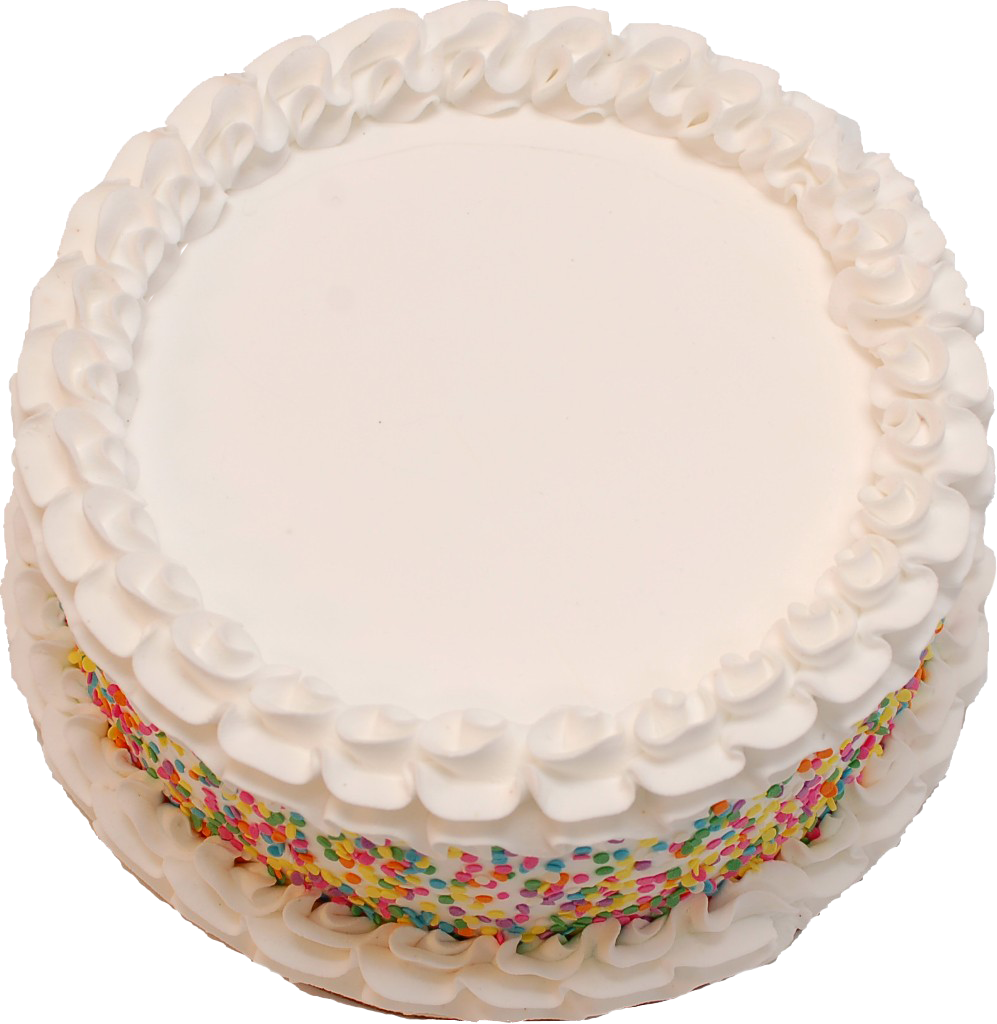
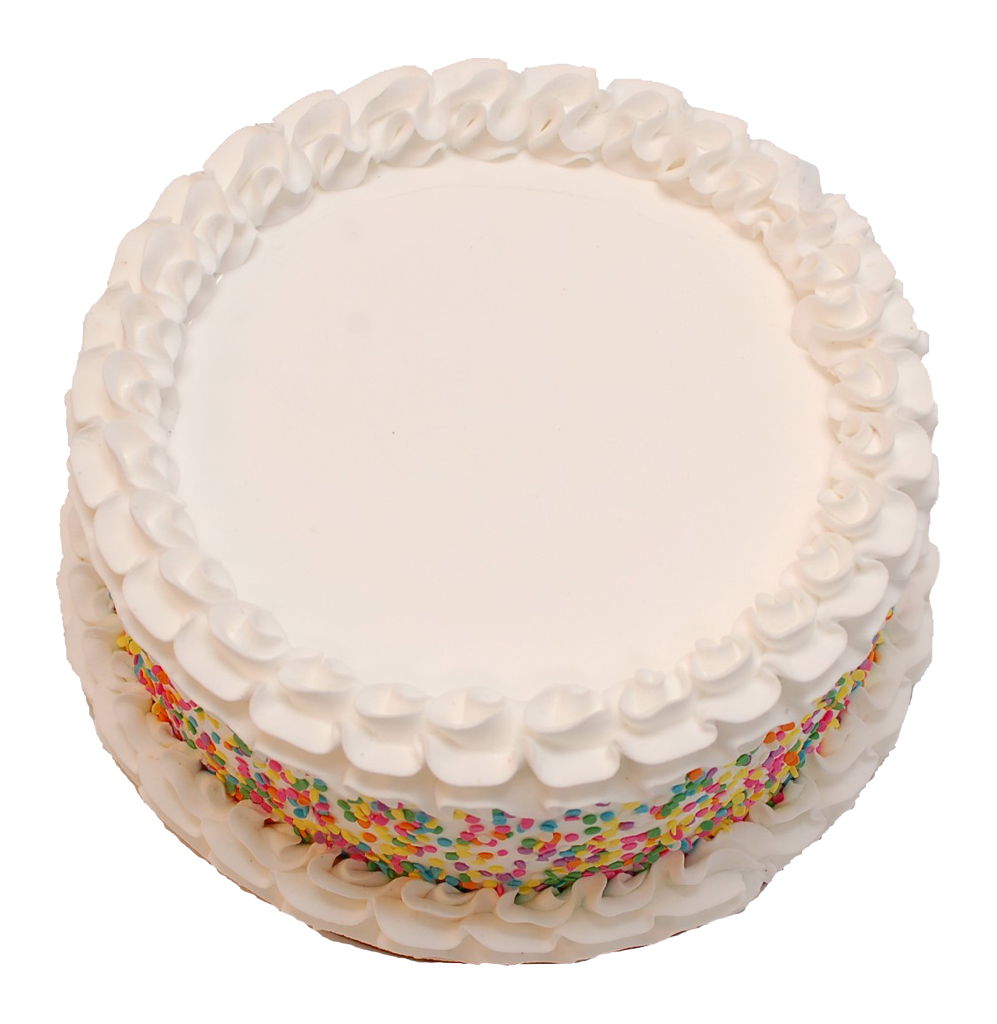
Resized cake, added cherry button
Function1 is a function to check if cherry button works

diff --git a/public/sketch.js b/public/sketch.js
@@ -27,7 +27,7 @@ function newBroadcast(data) {
 
 function preload() {
   cake = loadImage("./assets/cake.png");
-  // cherry = loadImage("./assets/cherry.jpg");
+  cherry = loadImage("./assets/cherry.jpg");
   // blue_icing = loadImage("./assets/blue.jpg");
   // violet_icing = loadImage("./assets/violet.jpg");
   // yellow_icing = loadImage("./assets/yellow.jpg");
@@ -74,25 +74,21 @@ function mouseMoved() {
 
 function interface() {
   removeElements();
+
   imageMode(CENTER);
-
-  if (windowWidth > windowHeight) {
-    cake.resize(0, cake_scale * height);
-  } else {
-    cake.resize(cake_scale * width, 0);
-  }
-
-  image(cake, width / 2, height / 2);
-
-  // imageMode(CENTER);
   // if (windowWidth > windowHeight) {
   //   cake.resize(0, cake_scale * height);
   // } else {
   //   cake.resize(cake_scale * width, 0);
   // }
-  // cake = createImg("./assets/cake.png");
-  // cake.position(width / 2, height / 2);
-  // cake.style("pointer-events", "none");
+  image(cake, width / 2, height / 2);
+
+  button = createImg("cherry.png");
+  button.position(width / 2, height / 2);
+  button.mousePressed(function1);
+}
+function function1() {
+  console.log("Function1 sta funzionando");
 }
 
 function windowResized() {
